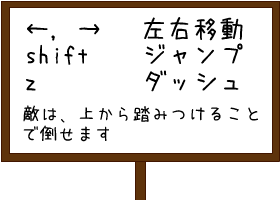
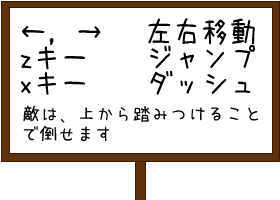
[fix] あたり判定修正
refs # 上方向のあたり判定を直した

diff --git a/star_action/src/charas/blocks/AbstractBlock.java b/star_action/src/charas/blocks/AbstractBlock.java
@@ -7,8 +7,8 @@ import java.awt.Graphics;
 
 import charas.AbstractChara;
 import charas.bosses.Boss1;
-import charas.enemys.MoveEnemy;
 import charas.enemys.WalkEnemy;
+import star_action.Model;
 
 /**
  * 通常ゲームでは普通のブロック。プレイヤーが触れても、敵が触れても消えることはない。また、このブロックは右クリックで消すことはできない。
@@ -111,13 +111,13 @@ public class AbstractBlock extends AbstractChara {
 			return hitX;
 		}
 		// 近いときは当たり判定を計算
-		// 現在のフレームでぶつかっておらず、次のフレームで壁とぶつかっているとき
+		// 次のフレームで壁とぶつかっているとき
 		if (isHitMove(c)){
 			// 座標角度と移動角度で判定
 			if (cos >= Math.cos(30 * Math.PI / 180.0) || cos <= Math.cos(150 * Math.PI / 180.0) || (Math.abs(Math.cos(c.getMoveAngle())) > Math.cos(35 * Math.PI / 180.0) &&  (int)cy + c.getHeight()/2 != (int)yPosition - BLOCK_SIZE/2 )) {
 				// 現在どの壁にもぶつかっていないとき
 					// 右方向に移動時(右側の壁にぶつかる)
-					if(cxsp > 0 && nextMaxX - (blockMinX) <= XSPEED_MAX){
+					if(cxsp > 0 && nextMaxX - (blockMinX) < XSPEED_MAX){
 						hitr = 1;
 						c.setxPosition(blockMinX - cwh);
 					}
@@ -169,7 +169,6 @@ public class AbstractBlock extends AbstractChara {
 	}
 
 	public Dimension hity(AbstractChara c) {
-		int dore = 0;
 		boolean nowHit = isHit(c);
 		int hith = 0;
 		int hitl = 0;
@@ -179,9 +178,9 @@ public class AbstractBlock extends AbstractChara {
 		double chh = c.getHeight() / 2;
 		double cxsp = c.getxSpeed();
 		double cysp = c.getySpeed();
-		double angle = Math.atan2(cy - yPosition, cx - xPosition);
 		double nextMaxY = cy + chh +  cysp;
 		double nextMinY = cy - chh +  cysp;
+		
 		// 対象キャラと離れすぎているとき,当たり判定を計算しない
 		if(Math.abs( cx + cxsp - xPosition ) > 100 || Math.abs(cy + cysp - yPosition) > 100){
 			hitY.setSize(hith, hitl);
@@ -194,13 +193,11 @@ public class AbstractBlock extends AbstractChara {
 			if(cy + chh == yPosition - height/2){
 				hitl = 1;
 				c.setyPosition(yPosition - (chh + BLOCK_SIZE / 2));
-				dore = 1;
 			}
 			// Boss1用
 			else if(c instanceof Boss1){
 				hitl = 1;
 			}
-			dore = 4;
 		}
 
 		// 現フレームでブロックとぶつかっていないとき
@@ -211,16 +208,29 @@ public class AbstractBlock extends AbstractChara {
 					hitl = 1;
 					c.setyPosition(yPosition - (chh + BLOCK_SIZE / 2));
 					c.changeYSpeed();
-					dore = 2;
 				}
 				// 空中で上方向に衝突するとき③
-				else if(cysp < 0 && (yPosition + height/2) - nextMinY < YSPEED_MAX+3 && (((cx + cwh != xPosition - width/2) && (cx - cwh != xPosition + width/2)) && Math.sin(angle) > Math.sin(55 * Math.PI / 180.0))){
-					hith = 1;
-					c.setyPosition(yPosition + (chh + BLOCK_SIZE / 2));
-					dore = 3;
-				}
+				else if(cysp < 0 && (yPosition + height/2) - nextMinY < YSPEED_MAX+3 && ((cx + cwh != xPosition - width/2) && (cx - cwh != xPosition + width/2)) && cy-chh > yPosition + BLOCK_SIZE/2 - 2){
+					boolean flag = false; 	// 現在のブロックの下にもブロックがあるか(衝突している対象が単一ブロックか壁か)の判定
+											// true の場合は壁の中間のブロックに上方向に衝突しているという判定なので、速度や位置の調整は行わない。
+											// false の場合は縦方向に単一のブロックに上方向に衝突しているという判定なので、速度や位置の調整を行う。
+					for (AbstractBlock b : Model.getBlockList()) {
+						if (b.isHitPoint(xPosition, yPosition + 50)) {
+							flag = true;
+						}
+					}
+					for (AbstractBlock b : Model.getPlaceBlockList()) {
+						if (b.isHitPoint(xPosition, yPosition + 50)) {
+							flag = true;
+						}
+					}
+					if(!flag){
+						hith = 1;
+						c.setyPosition(yPosition + (chh + BLOCK_SIZE / 2));
+						c.changeYSpeed();
+					}
+				}		
 			}
-			dore = 5;
 		}
 
 		// Boss1用
@@ -229,7 +239,6 @@ public class AbstractBlock extends AbstractChara {
 				hitl = 1;
 			}
 		}
-		if(c instanceof MoveEnemy)			System.out.println(dore);
 		hitY.setSize(hith, hitl);
 		return hitY;
 	}

diff --git a/star_action/src/star_action/Controller.java b/star_action/src/star_action/Controller.java
@@ -2,13 +2,11 @@ package star_action;
 
 import static constants.MathConstants.*;
 
-import java.awt.event.InputEvent;
 import java.awt.event.KeyAdapter;
 import java.awt.event.KeyEvent;
 import java.awt.event.MouseAdapter;
 import java.awt.event.MouseEvent;
 
-import charas.PlayerChara;
 import enums.GameStatus;
 /**
  * キー操作、マウス操作を行うためのコントローラです
@@ -57,19 +55,19 @@ public class Controller {
 	 *
 	 */
 	static class StarActionKeyAdapter extends KeyAdapter {
-		PlayerChara playerChara;
-		public StarActionKeyAdapter(PlayerChara c){
-			playerChara = c;
+		private StarActionKeyAdapter(){
 		}
 
+		/**
+		 * キーを押したときの処理
+		 */
 		public void keyPressed(KeyEvent evt) {
-
-			int mod = evt.getModifiersEx();
 			switch (Model.getGameStatus()) {
 			// オープニング画面の時
 			case Opening:
 				switch (evt.getKeyCode()) {
-				case KeyEvent.VK_ENTER:
+				case 'z':
+				case 'Z':	
 					Model.gameInit();
 					Model.setGameStatus(GameStatus.StageChange);
 					break;
@@ -79,26 +77,18 @@ public class Controller {
 			case Playing:
 				switch (evt.getKeyCode()) {
 				case KeyEvent.VK_RIGHT:
-					if ((mod & InputEvent.SHIFT_DOWN_MASK) != 0) {
-						playerChara.setMoveUp(true);
-					}
-					playerChara.setMoveRight(true);
+					Model.setPlayerMoveRight(true);
 					break;
 				case KeyEvent.VK_LEFT:
-					if ((mod & InputEvent.SHIFT_DOWN_MASK) != 0){
-						playerChara.setMoveUp(true);
-					}
-					playerChara.setMoveLeft(true);
-					break;
-				case KeyEvent.VK_SHIFT:
-					playerChara.setMoveUp(true);
+					Model.setPlayerMoveLeft(true);
 					break;
 				case 'z':
 				case 'Z':
-					if ((mod & InputEvent.SHIFT_DOWN_MASK) != 0){
-						playerChara.setMoveUp(true);
-					}
-					playerChara.setDash(true);
+					Model.setPlayerMoveUp(true);
+					break;
+				case 'x':
+				case 'X':
+					Model.setPlayerMoveDash(true);
 					break;
 				case 'r':// 自殺用
 				case 'R':
@@ -117,7 +107,8 @@ public class Controller {
 			// ゲームクリアのとき
 			case Ending:
 				switch (evt.getKeyCode()) {
-				case KeyEvent.VK_ENTER:
+				case 'z':
+				case 'Z':
 					Model.setGameStatus(GameStatus.Opening);
 					break;
 				}
@@ -125,7 +116,8 @@ public class Controller {
 			// ステージ変更画面のとき
 			case StageChange:
 				switch (evt.getKeyCode()) {
-				case KeyEvent.VK_ENTER:
+				case 'z':
+				case 'Z':
 					Model.setGameStatus(GameStatus.Playing);
 					break;
 				}
@@ -133,7 +125,8 @@ public class Controller {
 			// ボスを倒したとき
 			case WorldChange:
 				switch (evt.getKeyCode()) {
-				case KeyEvent.VK_ENTER:
+				case 'z':
+				case 'Z':
 					Model.nextStage();
 					break;
 				}
@@ -143,20 +136,24 @@ public class Controller {
 
 		}
 
+		/**
+		 * キーを離した時の処理
+		 */
 		public void keyReleased(KeyEvent evt) {
 			switch (evt.getKeyCode()) {
-			case KeyEvent.VK_SHIFT:
-				playerChara.setMoveUp(false);
-				break;
-			case KeyEvent.VK_RIGHT:
-				playerChara.setMoveRight(false);
-				break;
-			case KeyEvent.VK_LEFT:
-				playerChara.setMoveLeft(false);
-				break;
 			case 'z':
 			case 'Z':
-				playerChara.setDash(false);
+				Model.setPlayerMoveUp(false);
+				break;
+			case KeyEvent.VK_RIGHT:
+				Model.setPlayerMoveRight(false);
+				break;
+			case KeyEvent.VK_LEFT:
+				Model.setPlayerMoveLeft(false);
+				break;
+			case 'x':
+			case 'X':
+				Model.setPlayerMoveDash(false);
 				break;
 
 			}
@@ -175,7 +172,7 @@ public class Controller {
 
 	public static KeyAdapter getKeyAdapter() {
 		if (keyAdapter == null) {
-			keyAdapter = new StarActionKeyAdapter(Model.getPlayerChara());
+			keyAdapter = new StarActionKeyAdapter();
 		}
 		return keyAdapter;
 	}

diff --git a/star_action/src/stages/Stage.java b/star_action/src/stages/Stage.java
@@ -31,7 +31,7 @@ public class Stage {
 	private ArrayList<Needle> needleList = new ArrayList<Needle>();
 	private ArrayList<AbstractSignboard> signboardList = new ArrayList<AbstractSignboard>();
 	private GoalBlock goalBlock;
-	
+
 	private static Stage stage = null;
 	private MapItems mapItems;
 
@@ -68,7 +68,7 @@ public class Stage {
 						break;
 					case N: //プレイヤーが触れると消えるブロック
 						blockList.add(mapItems.getFakeBlocks().init(j,i,IMAGE_BLOCK_NOMAL));
-						break;	
+						break;
 					case g: // ゴール
 						blockList.add(mapItems.getGoalBlocks().init(j,i));
 						break;
@@ -127,7 +127,7 @@ public class Stage {
 					case k2: // ボス
 						enemyList.add(new Boss2(j, i));
 						break;
-						
+
 					case s1: // 看板
 						signboardList.add(new SignBoard(j, i, IMAGE_SIGNBOARD_1));
 						break;
@@ -139,14 +139,13 @@ public class Stage {
 						break;
 					case s4: // 看板
 						signboardList.add(new SignBoard(j, i, IMAGE_SIGNBOARD_4));
-						break;	
+						break;
 					case s5: // 看板
 						signboardList.add(new SignBoard(j, i, IMAGE_SIGNBOARD_5));
-						break;		
+						break;
 				}
 			}
 		}
-		//System.out.println("Stage loaded");
 		currentClickableNum = clickableNum[stageNum-1];
 		currentScrollable = scrollable[stageNum-1];
 	}
@@ -163,7 +162,7 @@ public class Stage {
 	public int[] getClickableNum(){return currentClickableNum.clone();}
 
 	public boolean getScrollable() {return currentScrollable;}
-	
+
 	public static Stage getStage(){
 		if (stage == null) {
 			stage = new Stage();

diff --git a/star_action/src/star_action/MainFrame.java b/star_action/src/star_action/MainFrame.java
@@ -47,14 +47,9 @@ public class MainFrame extends JFrame {
 		viewPanel = ViewPanel.getViewPanel();
 		this.getContentPane().remove(loadingSlide);
 		this.getContentPane().add(viewPanel);
-		this.setSize(WINDOW_WIDTH, WINDOW_HEIGHT);
-		this.setTitle("STAR ACTION");
-		this.setDefaultCloseOperation(JFrame.EXIT_ON_CLOSE);
 		addMouseListener(Controller.getMouseAdapter());
 		addKeyListener(Controller.getKeyAdapter());
 		requestFocus();
-		this.setResizable(false);
-		this.validate();
 		this.setVisible(true);
 		
 	}

diff --git a/star_action/src/star_action/Model.java b/star_action/src/star_action/Model.java
@@ -420,4 +420,17 @@ public class Model {
 		Model.worldNum = worldNum;
 	}
 
+	public static void setPlayerMoveRight(boolean b){
+		playerChara.setMoveRight(b);
+	}
+	public static void setPlayerMoveLeft(boolean b){
+		playerChara.setMoveLeft(b);
+	}
+	public static void setPlayerMoveUp(boolean b){
+		playerChara.setMoveUp(b);
+	}
+	public static void setPlayerMoveDash(boolean b){
+		playerChara.setDash(b);
+	}
+
 }

diff --git a/star_action/src/slide/WorldClearSlide.java b/star_action/src/slide/WorldClearSlide.java
@@ -27,7 +27,7 @@ public class WorldClearSlide extends AbstractSlide {
 		super();
 		imageWorld = referenceItems.getTexteImage(i);
 		imageClear = referenceItems.getTexteImage(IMAGE_TEXT_CLEAR);
-		text = new Text(250, 500, "Press 'Enter' Key to Go to the Next World", font, Color.BLACK);
+		text = new Text(270, 500, "Press 'Z' Key to Go to the Next World", font, Color.BLACK);
 		init();
 	}
 

diff --git a/star_action/src/slide/OpeningSlide.java b/star_action/src/slide/OpeningSlide.java
@@ -17,7 +17,7 @@ public class OpeningSlide extends AbstractSlide {
 	public OpeningSlide() {
 		font = new Font("serif", Font.BOLD, 30);
 		image = referenceItems.getOpeningImage();
-		text = new Text(250, 400, "Press 'Enter' Key to Start Game", font, Color.BLACK);
+		text = new Text(270, 400, "Press 'Z' Key to Start Game", font, Color.BLACK);
 	}
 
 	public void draw(Graphics g) {

diff --git a/star_action/src/slide/GameoverSlide.java b/star_action/src/slide/GameoverSlide.java
@@ -16,7 +16,7 @@ public class GameoverSlide extends AbstractSlide {
 	public GameoverSlide() {
 		super();
 		image = referenceItems.getGameoverImage();
-		text = new Text(300, 350, "Press 'R' Key to Start Again", font, Color.BLACK);
+		text = new Text(320, 350, "Press 'R' Key to Start Again", font, Color.BLACK);
 	}
 
 	public void draw(Graphics g) {

diff --git a/star_action/src/slide/EndingSlide.java b/star_action/src/slide/EndingSlide.java
@@ -16,7 +16,7 @@ public class EndingSlide extends AbstractSlide {
 	public EndingSlide() {
 		super();
 		image = referenceItems.getEndingImage();
-		text = new Text(300, 200, "Press 'Enter' Key to Back Title", font, Color.WHITE);
+		text = new Text(300, 200, "Press 'Z' Key to Back Title", font, Color.WHITE);
 	}
 
 	public void setText(int i) {
